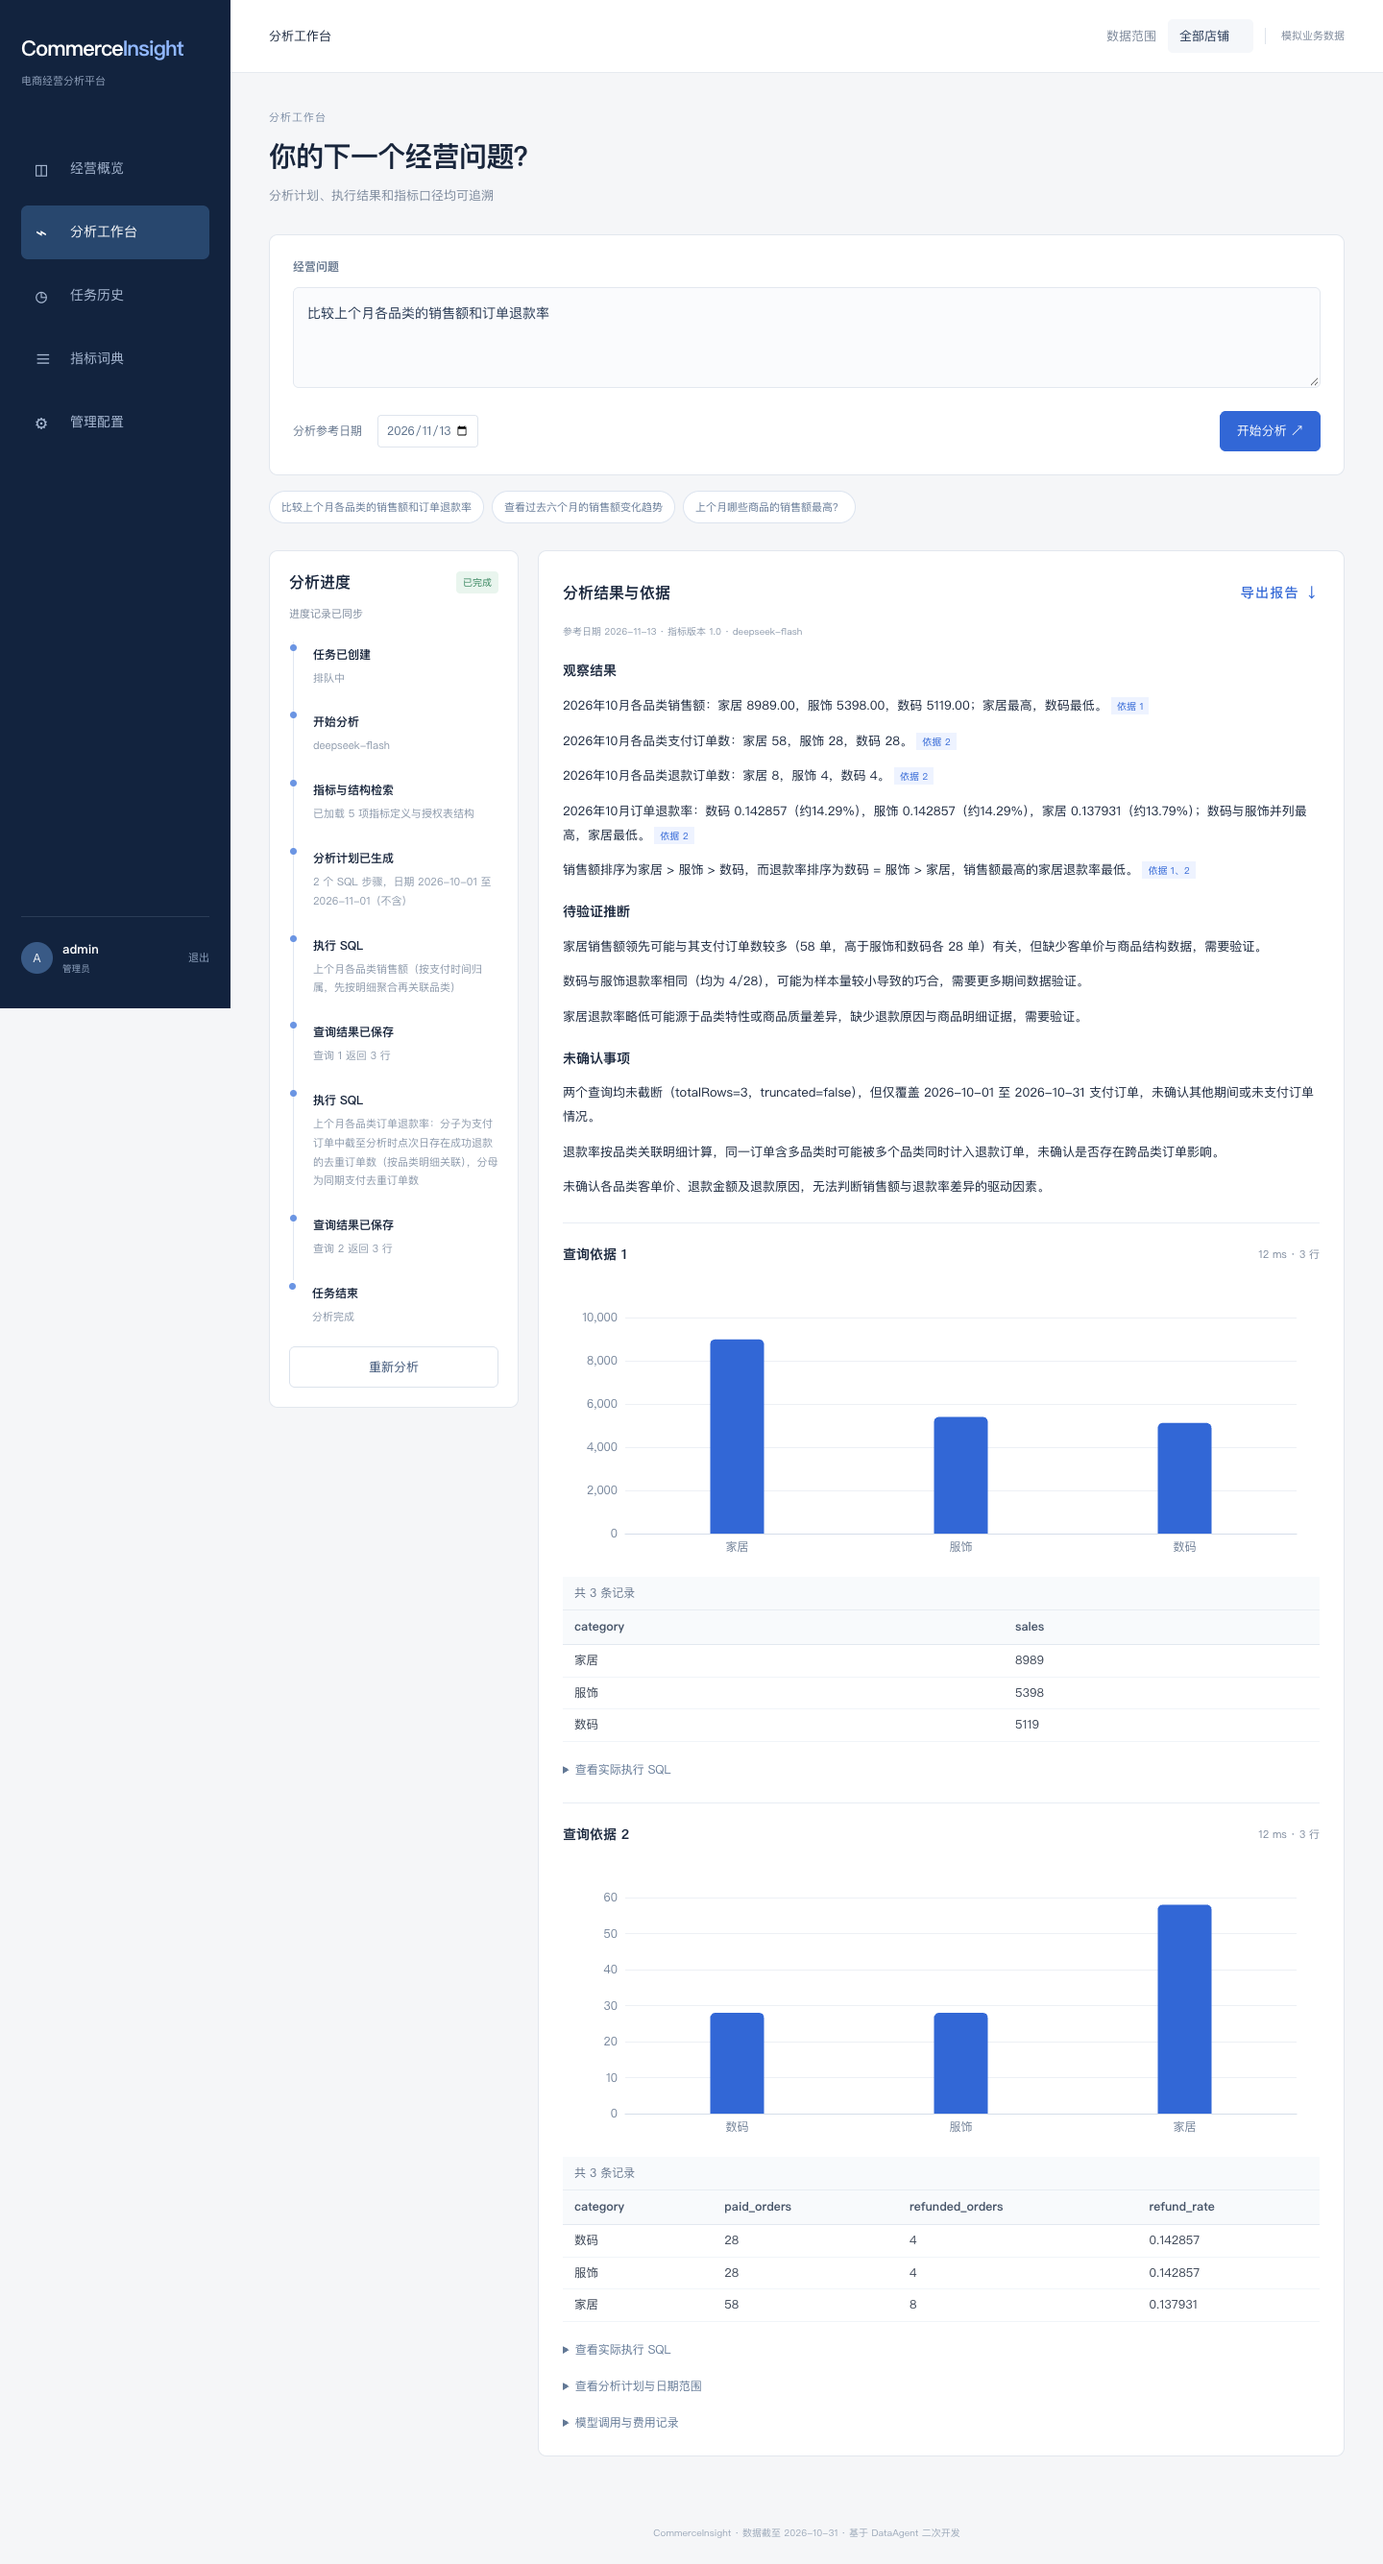
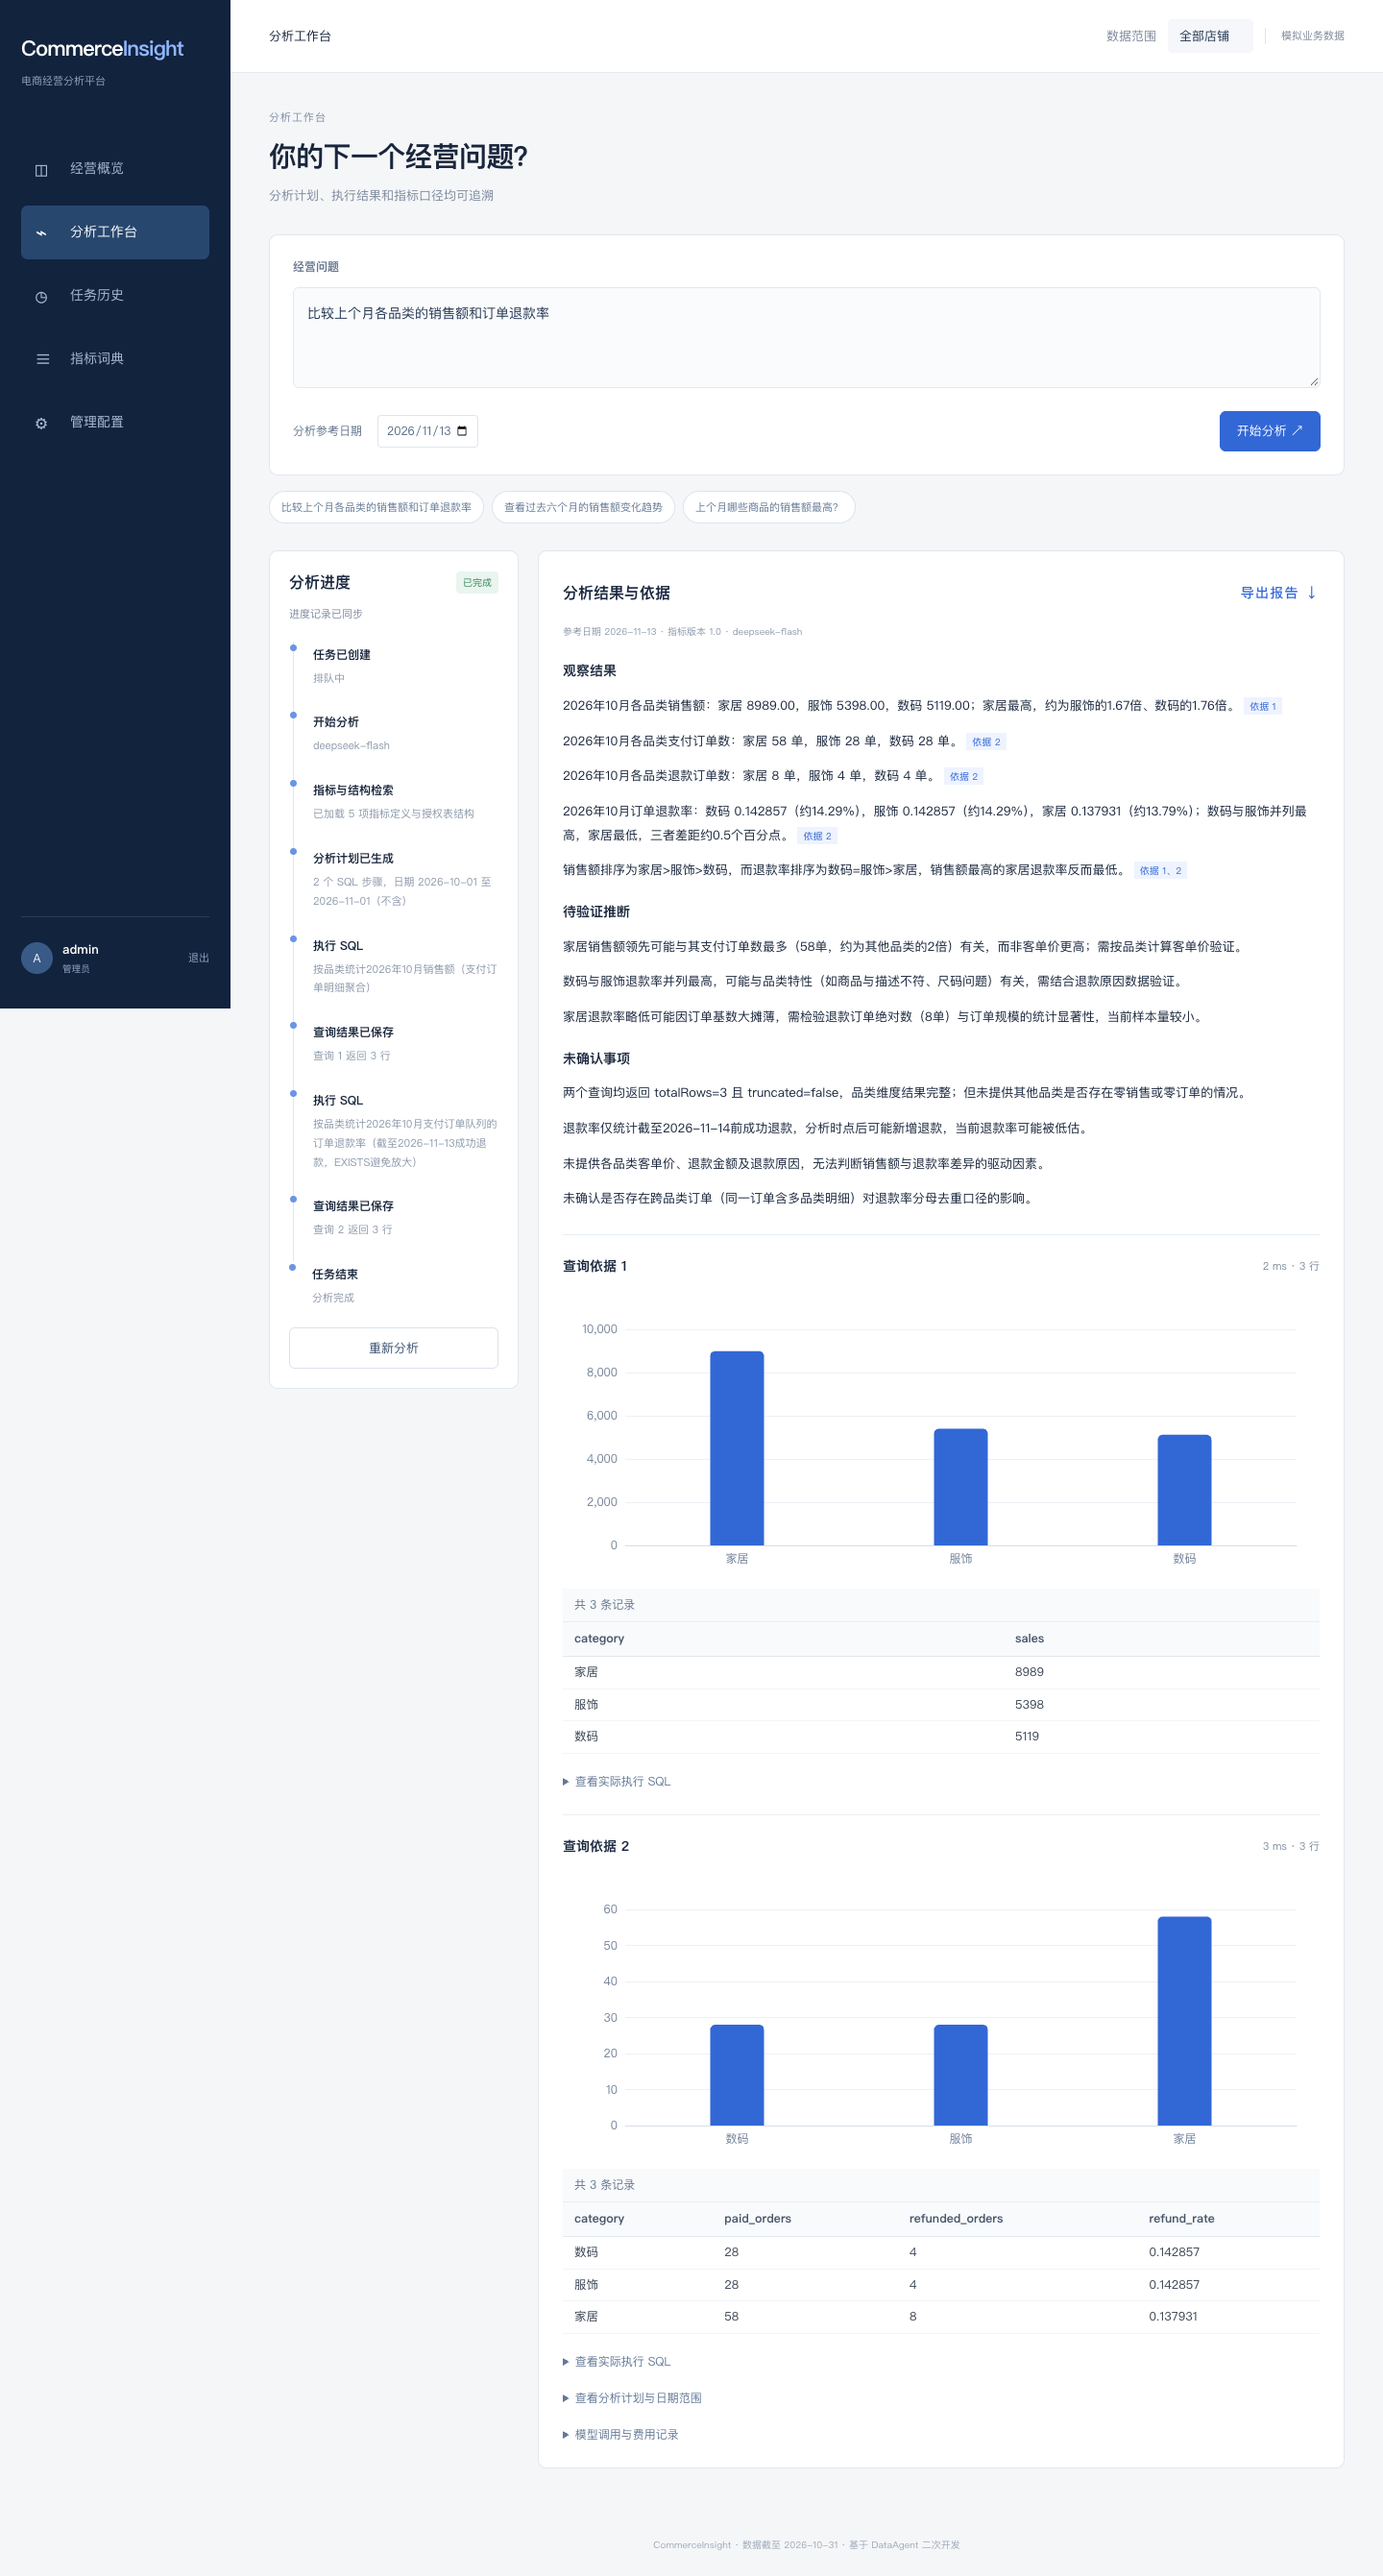
docs: record successful full-stack container acceptance

diff --git a/commerce/docs/EVALUATION.md b/commerce/docs/EVALUATION.md
@@ -45,3 +45,9 @@ API 检查覆盖登录、CSRF、匿名访问、角色权限、跨店铺访问、
 本项目持久化记录每次真实调用的 usage。表中的费用按官方 Flash 高峰、输入未命中缓存价格以及 `8 CNY/USD` 的保守预算换算计算。缺少 usage 的请求保留预留，因此项目预算数值包含仍待结算的上界。
 
 固定评测、调试及演示的累计费用与预留可在管理员页面查看。本次运行保持在用户授权的 20 元范围内，应用的预留上限为 18 元。
+
+## Docker 运行验收
+
+前后端镜像均从仓库源码构建成功。完整 Docker Compose 中的 Java 后端、Nuxt 前端和专用 MySQL 已启动，通过前端代理完成全部 27 项 API 检查，以及实际模型提问、报告图表、刷新恢复和窄屏浏览器检查。
+
+实际服务状态、健康检查和累计预算快照保存于 [deployment-results.json](../evaluation/deployment-results.json)。费用与预留快照约为 1.09 元，预算上限为 18 元。
